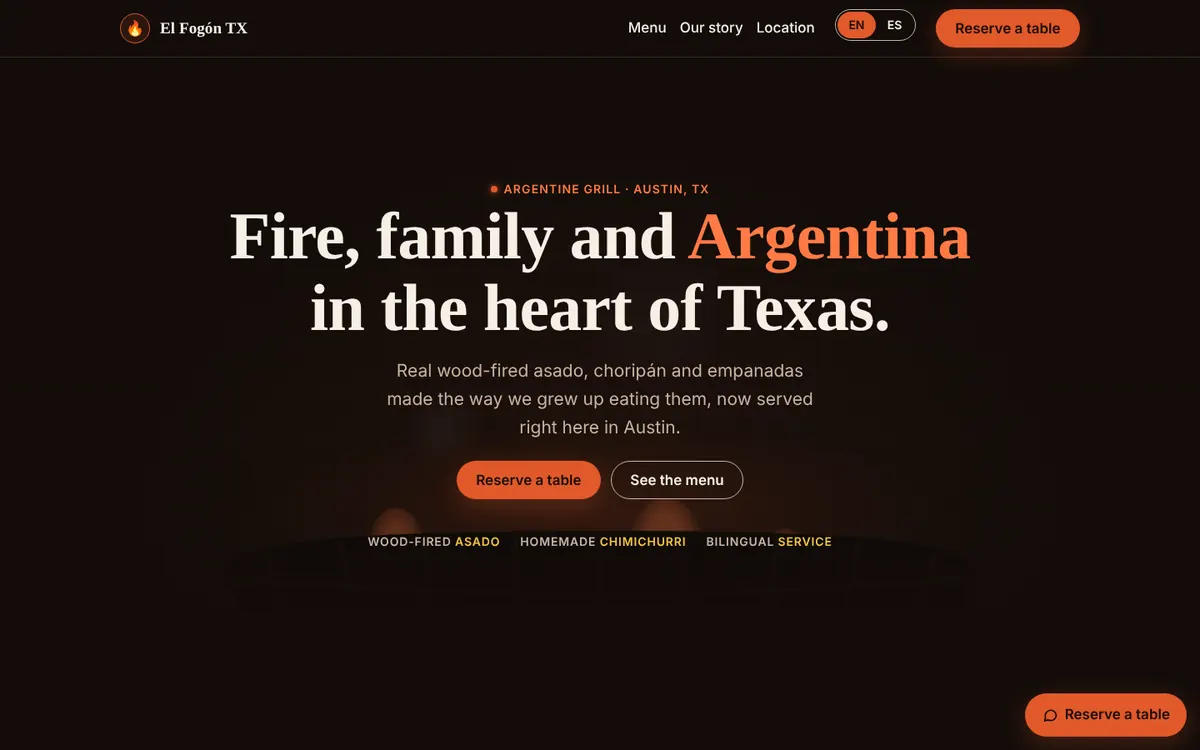
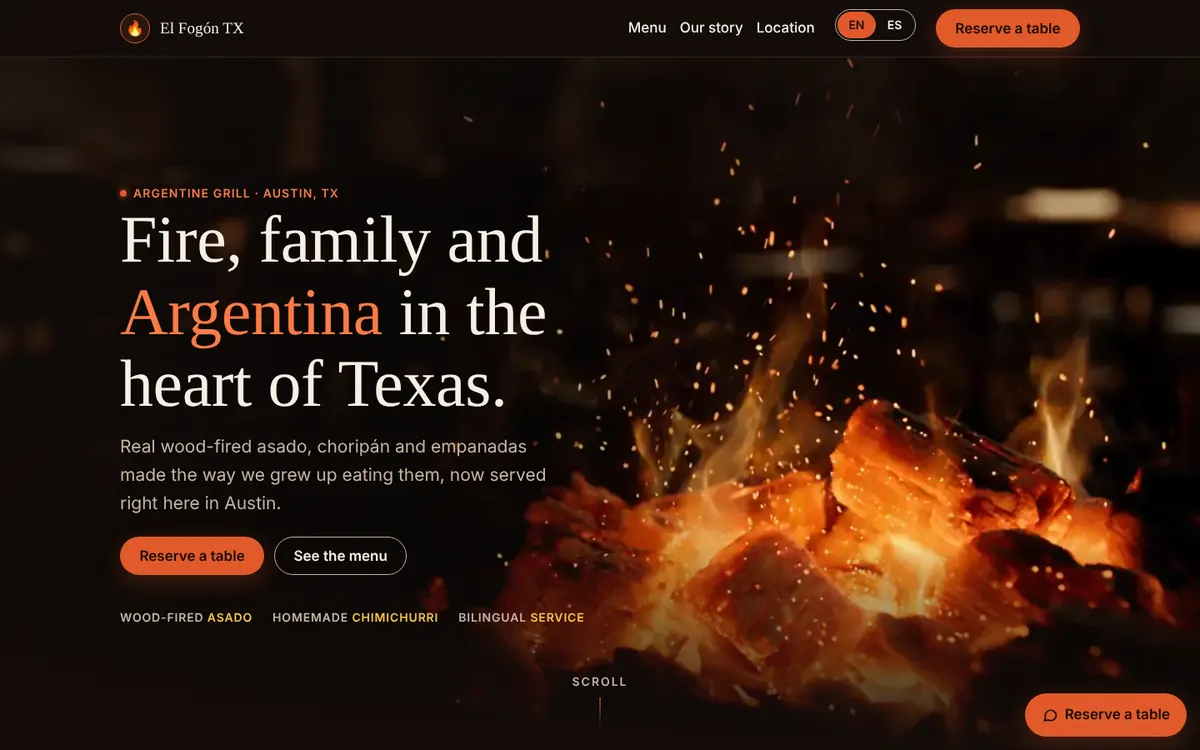
Trabajos: El Fogón primero, con su nueva versión cinematográfica
Claude-Session: https://claude.ai/code/session_01QtU3EMgLB4HRmgR71m3PwM

diff --git a/index.html b/index.html
@@ -356,19 +356,19 @@ footer .wrap{display:flex;justify-content:space-between;gap:16px;flex-wrap:wrap}
         <p data-i18n="wk.p">Gastronomía, tecnología, fitness y finanzas. Todas están en vivo: entra y recórrelas.</p>
       </div>
       <div class="work-grid">
+        <a class="proj" href="https://fenix-emanuel.github.io/el_fogon_tx/" target="_blank" rel="noopener">
+          <div class="frame"><img src="assets/work/fogon.webp" alt="" width="1200" height="750" loading="lazy" decoding="async"><span class="heat" aria-hidden="true"></span></div>
+          <div class="proj-meta"><span class="label" data-i18n="wk.fogon.l">Parrilla argentina · Austin, TX</span><span class="go" aria-hidden="true" data-i18n="wk.go">Ver en vivo ↗</span></div>
+          <h3>El Fogón TX</h3>
+          <p data-i18n="wk.fogon.p">Del fuego a la mesa en una sola toma: un video que avanza con el scroll y platos que se arman solos, ingrediente por ingrediente.</p>
+          <ul data-i18n="wk.fogon.ul"><li>Video al scroll</li><li>3D</li><li>Bilingüe</li></ul>
+        </a>
         <a class="proj" href="https://fenix-emanuel.github.io/hugos-cafeteria/" target="_blank" rel="noopener">
           <div class="frame"><img src="assets/work/hugos.webp" alt="" width="1200" height="750" loading="lazy" decoding="async"><span class="heat" aria-hidden="true"></span></div>
           <div class="proj-meta"><span class="label" data-i18n="wk.hugos.l">Café y pastelería · Austin, TX</span><span class="go" aria-hidden="true" data-i18n="wk.go">Ver en vivo ↗</span></div>
           <h3>HUGO'S Cafetería</h3>
           <p data-i18n="wk.hugos.p">Una cafetería con alma de barrio: carta, reseñas y reservas en una web cálida y bilingüe.</p>
           <ul data-i18n="wk.hugos.ul"><li>Bilingüe</li><li>Animaciones</li><li>Reservas</li></ul>
-        </a>
-        <a class="proj" href="https://fenix-emanuel.github.io/el_fogon_tx/" target="_blank" rel="noopener">
-          <div class="frame"><img src="assets/work/fogon.webp" alt="" width="1200" height="750" loading="lazy" decoding="async"><span class="heat" aria-hidden="true"></span></div>
-          <div class="proj-meta"><span class="label" data-i18n="wk.fogon.l">Parrilla argentina · Austin, TX</span><span class="go" aria-hidden="true" data-i18n="wk.go">Ver en vivo ↗</span></div>
-          <h3>El Fogón TX</h3>
-          <p data-i18n="wk.fogon.p">Fuego, familia y asado: una web oscura y cálida que da hambre desde el primer scroll.</p>
-          <ul data-i18n="wk.fogon.ul"><li>Bilingüe</li><li>Ilustración</li><li>Reservas</li></ul>
         </a>
         <a class="proj" href="https://fenix-emanuel.github.io/evo-landing/" target="_blank" rel="noopener">
           <div class="frame"><img src="assets/work/evo.webp" alt="" width="1200" height="750" loading="lazy" decoding="async"><span class="heat" aria-hidden="true"></span></div>
@@ -559,8 +559,8 @@ const I18N_EN = {
   "wk.hugos.p": "A neighborhood café with soul: menu, reviews and reservations in a warm, bilingual site.",
   "wk.hugos.ul": "<li>Bilingual</li><li>Animations</li><li>Reservations</li>",
   "wk.fogon.l": "Argentine grill · Austin, TX",
-  "wk.fogon.p": "Fire, family and asado: a dark, warm site that makes you hungry from the first scroll.",
-  "wk.fogon.ul": "<li>Bilingual</li><li>Illustration</li><li>Reservations</li>",
+  "wk.fogon.p": "From fire to table in a single shot: scroll-driven video and dishes that assemble themselves, ingredient by ingredient.",
+  "wk.fogon.ul": "<li>Scroll video</li><li>3D</li><li>Bilingual</li>",
   "wk.evo.l": "Technology & infrastructure",
   "wk.evo.p": "Cabling, fiber and security explained clearly, with every contact going straight to WhatsApp.",
   "wk.evo.ul": "<li>Landing</li><li>Bilingual</li><li>WhatsApp</li>",
